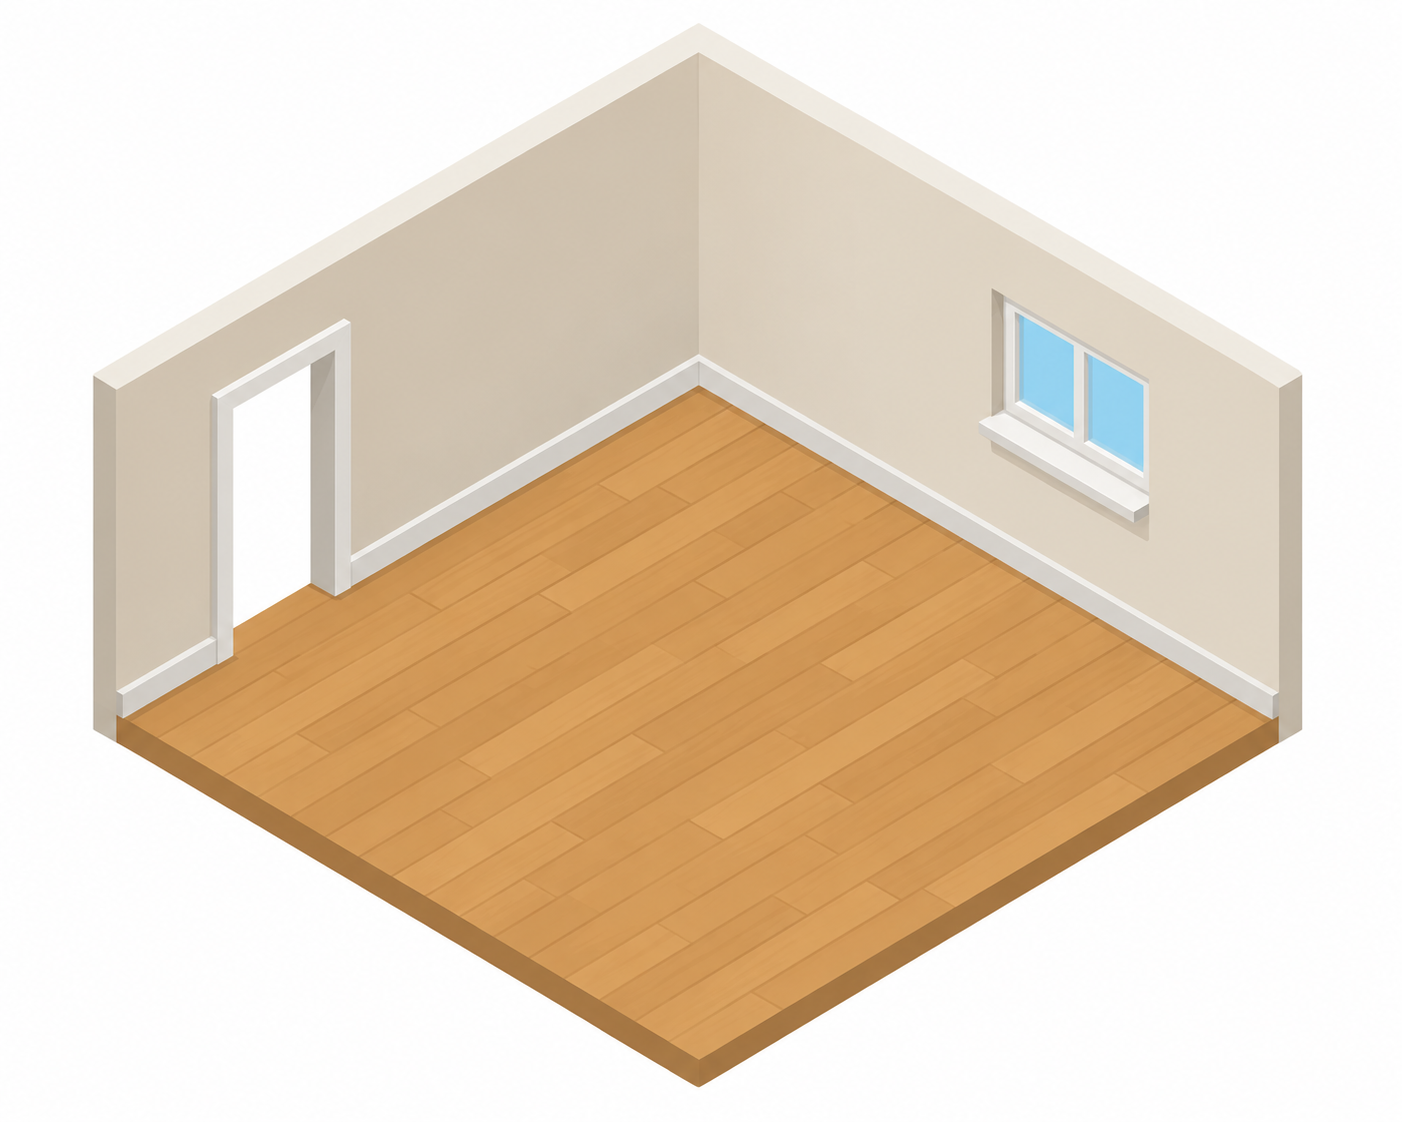
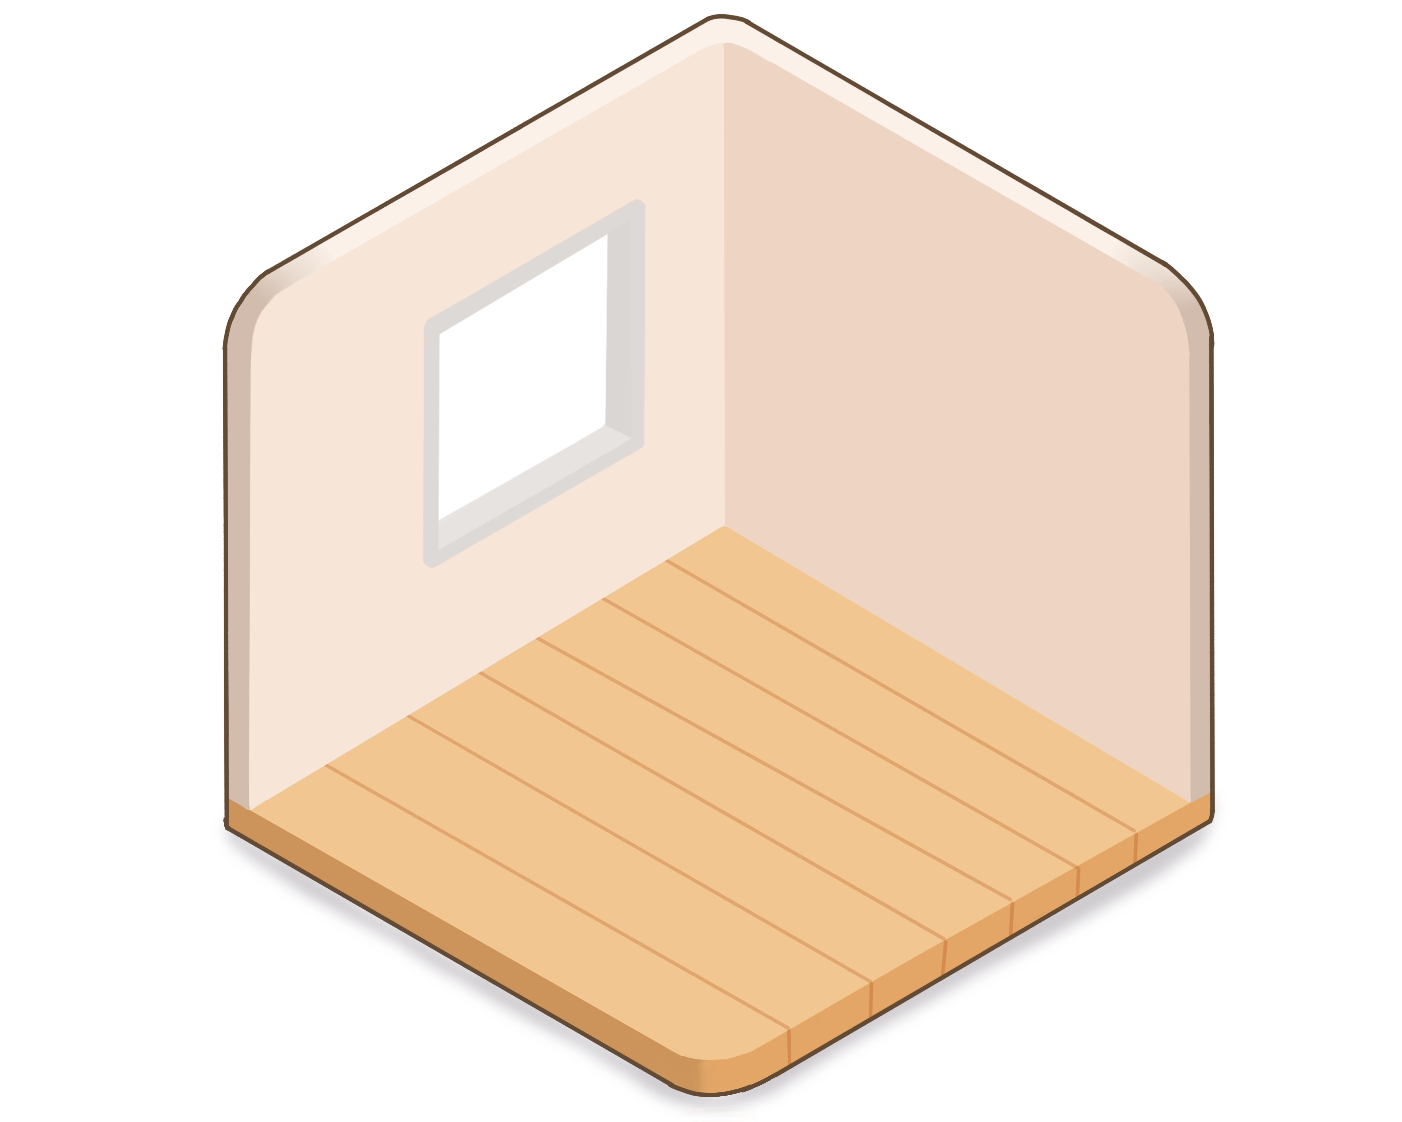
adding a real grid to the room

diff --git a/app/javascript/controllers/room_controller.js b/app/javascript/controllers/room_controller.js
@@ -9,15 +9,15 @@ export default class extends Controller {
   connect() {
     this.room = this.roomValue
 
-    this.tileWidth = 65
-    this.tileHeight = 35
+    this.tileWidth = 85
+    this.tileHeight = 45
 
-    this.offsetX = 445
-    this.offsetY = 190
+    this.offsetX = 460
+    this.offsetY = 260
     this.tileHeight += 3
-    this.furnitureScale = 1.2
-    this.furnitureOffsetX = 24
-    this.furnitureOffsetY = 5
+    this.furnitureScale = 1.35
+    this.furnitureOffsetX = 25
+    this.furnitureOffsetY = 115
 
     this.dragMove = this.dragMove.bind(this)
     this.dragEnd = this.dragEnd.bind(this)
@@ -54,29 +54,29 @@ export default class extends Controller {
       element.remove()
     })
 
-    for (let y = 0; y < this.room.height; y++) {
-      for (let x = 0; x < this.room.width; x++) {
-        const pos = this.gridToIso(x, y)
+    // for (let y = 0; y < this.room.height; y++) {
+    //   for (let x = 0; x < this.room.width; x++) {
+    //     const pos = this.gridToIso(x, y)
 
-        const tile = document.createElement("div")
-        tile.className = "tile"
+    //     const tile = document.createElement("div")
+    //     tile.className = "tile"
 
-        tile.style.position = "absolute"
-        tile.style.left = `${pos.x - this.tileWidth / 2}px`
-        tile.style.top = `${pos.y - this.tileHeight / 2}px`
+    //     tile.style.position = "absolute"
+    //     tile.style.left = `${pos.x - this.tileWidth / 2}px`
+    //     tile.style.top = `${pos.y - this.tileHeight / 2}px`
 
-        tile.style.width = `${this.tileWidth}px`
-        tile.style.height = `${this.tileHeight}px`
+    //     tile.style.width = `${this.tileWidth}px`
+    //     tile.style.height = `${this.tileHeight}px`
 
-        tile.style.border = "1px solid rgba(255, 0, 0, 0.4)"
-        tile.style.background = "rgba(255, 0, 0, 0.10)"
+    //     tile.style.border = "1px solid rgba(255, 0, 0, 0.4)"
+    //     tile.style.background = "rgba(255, 0, 0, 0.10)"
 
-        tile.style.clipPath = "polygon(50% 0%, 100% 50%, 50% 100%, 0% 50%)"
-        tile.style.pointerEvents = "none"
+    //     tile.style.clipPath = "polygon(50% 0%, 100% 50%, 50% 100%, 0% 50%)"
+    //     tile.style.pointerEvents = "none"
 
-        this.element.appendChild(tile)
-      }
-    }
+    //     this.element.appendChild(tile)
+    //   }
+    // }
 
     this.room.furnitures.forEach(item => {
       this.renderFurniture(item)
@@ -86,12 +86,16 @@ export default class extends Controller {
   renderFurniture(item) {
     const pos = this.gridToIso(item.x, item.y)
 
-    const visualWidth = item.width * this.tileWidth
-    const visualHeight = item.height * this.tileHeight * 2
+    const footprintWidth = item.width * this.tileWidth
+    const footprintHeight = item.height * this.tileHeight
+    const visualWidth = this.tileWidth * 2
+    const visualHeight = this.tileHeight * 4
 
     console.log("[room] renderFurniture:start", {
       item,
       pos,
+      footprintWidth,
+      footprintHeight,
       visualWidth,
       visualHeight,
       furnitureScale: this.furnitureScale,
@@ -100,23 +104,23 @@ export default class extends Controller {
     })
 
     // DEBUG : cases réellement occupées par le meuble
-    for (let dy = 0; dy < item.height; dy++) {
-      for (let dx = 0; dx < item.width; dx++) {
-        const footprintPos = this.gridToIso(item.x + dx, item.y + dy)
+    // for (let dy = 0; dy < item.height; dy++) {
+    //   for (let dx = 0; dx < item.width; dx++) {
+    //     const footprintPos = this.gridToIso(item.x + dx, item.y + dy)
 
-        const footprintTile = document.createElement("div")
-        footprintTile.className = "furniture-footprint"
+    //     const footprintTile = document.createElement("div")
+    //     footprintTile.className = "furniture-footprint"
 
-        footprintTile.style.position = "absolute"
-        footprintTile.style.left = `${footprintPos.x - this.tileWidth / 2}px`
-        footprintTile.style.top = `${footprintPos.y - this.tileHeight / 2}px`
-        footprintTile.style.width = `${this.tileWidth}px`
-        footprintTile.style.height = `${this.tileHeight}px`
-        footprintTile.style.zIndex = item.x + item.y - 1
+    //     footprintTile.style.position = "absolute"
+    //     footprintTile.style.left = `${footprintPos.x - this.tileWidth / 2}px`
+    //     footprintTile.style.top = `${footprintPos.y - this.tileHeight / 2}px`
+    //     footprintTile.style.width = `${this.tileWidth}px`
+    //     footprintTile.style.height = `${this.tileHeight}px`
+    //     footprintTile.style.zIndex = item.x + item.y - 1
 
-        this.element.appendChild(footprintTile)
-      }
-    }
+    //     this.element.appendChild(footprintTile)
+    //   }
+    // }
 
     const img = document.createElement("img")
 
@@ -221,8 +225,8 @@ export default class extends Controller {
     this.draggedElement.classList.remove("invalid-placement")
 
     const pos = this.gridToIso(grid.x, grid.y)
-    const visualWidth = this.draggedItem.width * this.tileWidth
-    const visualHeight = this.draggedItem.height * this.tileHeight * 2
+    const visualWidth = this.tileWidth * 2
+    const visualHeight = this.tileHeight * 4
 
     this.draggedItem.x = grid.x
     this.draggedItem.y = grid.y

diff --git a/db/seeds/room.rb b/db/seeds/room.rb
@@ -1,39 +1,76 @@
+
+puts "Cleaning furnitures..."
+
+RoomFurniture.destroy_all
+Furniture.destroy_all
+
 puts "Creating furnitures..."
 
-chair = Furniture.find_or_create_by!(name: "Chaise") do |f|
-  f.image_url = "furnitures/chair.png"
-  f.width = 1
-  f.height = 1
-end
+Furniture.create!(
+  name: "Punching Ball",
+  image_url: "furnitures/punching_ball.png",
 
-table = Furniture.find_or_create_by!(name: "Table") do |f|
-  f.image_url = "furnitures/table.png"
-  f.width = 2
-  f.height = 1
-end
+  # Occupation au sol
+  width: 1,
+  height: 1
 
-puts "Adding furnitures to rooms..."
+  # Le PNG sera simplement plus haut visuellement
+)
 
-User.find_each do |user|
-  room = user.room || user.create_room!(width: 8, height: 8)
+Furniture.create!(
+  name: "Sport Mat",
+  image_url: "furnitures/sport_mat.png",
 
-  room.room_furnitures.find_or_create_by!(
-    furniture: chair,
-    x: 2,
-    y: 2
-  ) do |item|
-    item.z = 0
-    item.rotation = 0
-  end
+  # 2 cases de large
+  width: 2,
+  height: 1
+)
 
-  room.room_furnitures.find_or_create_by!(
-    furniture: table,
-    x: 4,
-    y: 3
-  ) do |item|
-    item.z = 0
-    item.rotation = 0
-  end
-end
+Furniture.create!(
+  name: "Books",
+  image_url: "furnitures/books.png",
 
-puts "Done."
+  # 1 cases de large
+  width: 1,
+  height: 1
+)
+
+Furniture.create!(
+  name: "pool",
+  image_url: "furnitures/pool.png",
+
+  # 1 cases de large
+  width: 1,
+  height: 1
+)
+
+Furniture.create!(
+  name: "escalade",
+  image_url: "furnitures/Escalade.png",
+
+  # 1 cases de large
+  width: 2,
+  height: 1
+)
+
+Furniture.create!(
+  name: "orangechair",
+  image_url: "furnitures/chair.png",
+
+  # 1 cases de large
+  width: 1,
+  height: 1
+)
+
+Furniture.create!(
+  name: "Jasky",
+  image_url: "furnitures/jasky.gif",
+
+  # Occupation au sol
+  width: 1,
+  height: 1
+
+  # Le PNG sera simplement plus haut visuellement
+)
+
+puts "#{Furniture.count} furnitures created!"

diff --git a/app/controllers/users_controller.rb b/app/controllers/users_controller.rb
@@ -3,7 +3,8 @@ class UsersController < ApplicationController
   def show
     @user = current_user
     @available_furnitures = Furniture.all
-    @room = @user.room || @user.create_room!(width: 8, height: 8)
+    @room = @user.room || @user.create_room!(width: Room::GRID_WIDTH, height: Room::GRID_HEIGHT)
+    @room.ensure_default_size!
 
     @room_data = {
       id: @room.id,

diff --git a/app/controllers/rooms_controller.rb b/app/controllers/rooms_controller.rb
@@ -2,7 +2,8 @@ class RoomsController < ApplicationController
   before_action :authenticate_user!
 
   def show
-    @room = current_user.room || current_user.create_room!(width: 8, height: 8)
+    @room = current_user.room || current_user.create_room!(width: Room::GRID_WIDTH, height: Room::GRID_HEIGHT)
+    @room.ensure_default_size!
 
     @room_data = {
       id: @room.id,

diff --git a/app/models/room.rb b/app/models/room.rb
@@ -1,4 +1,13 @@
 class Room < ApplicationRecord
+  GRID_WIDTH = 5
+  GRID_HEIGHT = 5
+
   belongs_to :user
   has_many :room_furnitures, dependent: :destroy
+
+  def ensure_default_size!
+    return if width == GRID_WIDTH && height == GRID_HEIGHT
+
+    update!(width: GRID_WIDTH, height: GRID_HEIGHT)
+  end
 end

diff --git a/app/models/user.rb b/app/models/user.rb
@@ -18,6 +18,6 @@ class User < ApplicationRecord
   private
 
   def create_default_room
-    create_room!(width: 8, height: 8)
+    create_room!(width: Room::GRID_WIDTH, height: Room::GRID_HEIGHT)
   end
 end
